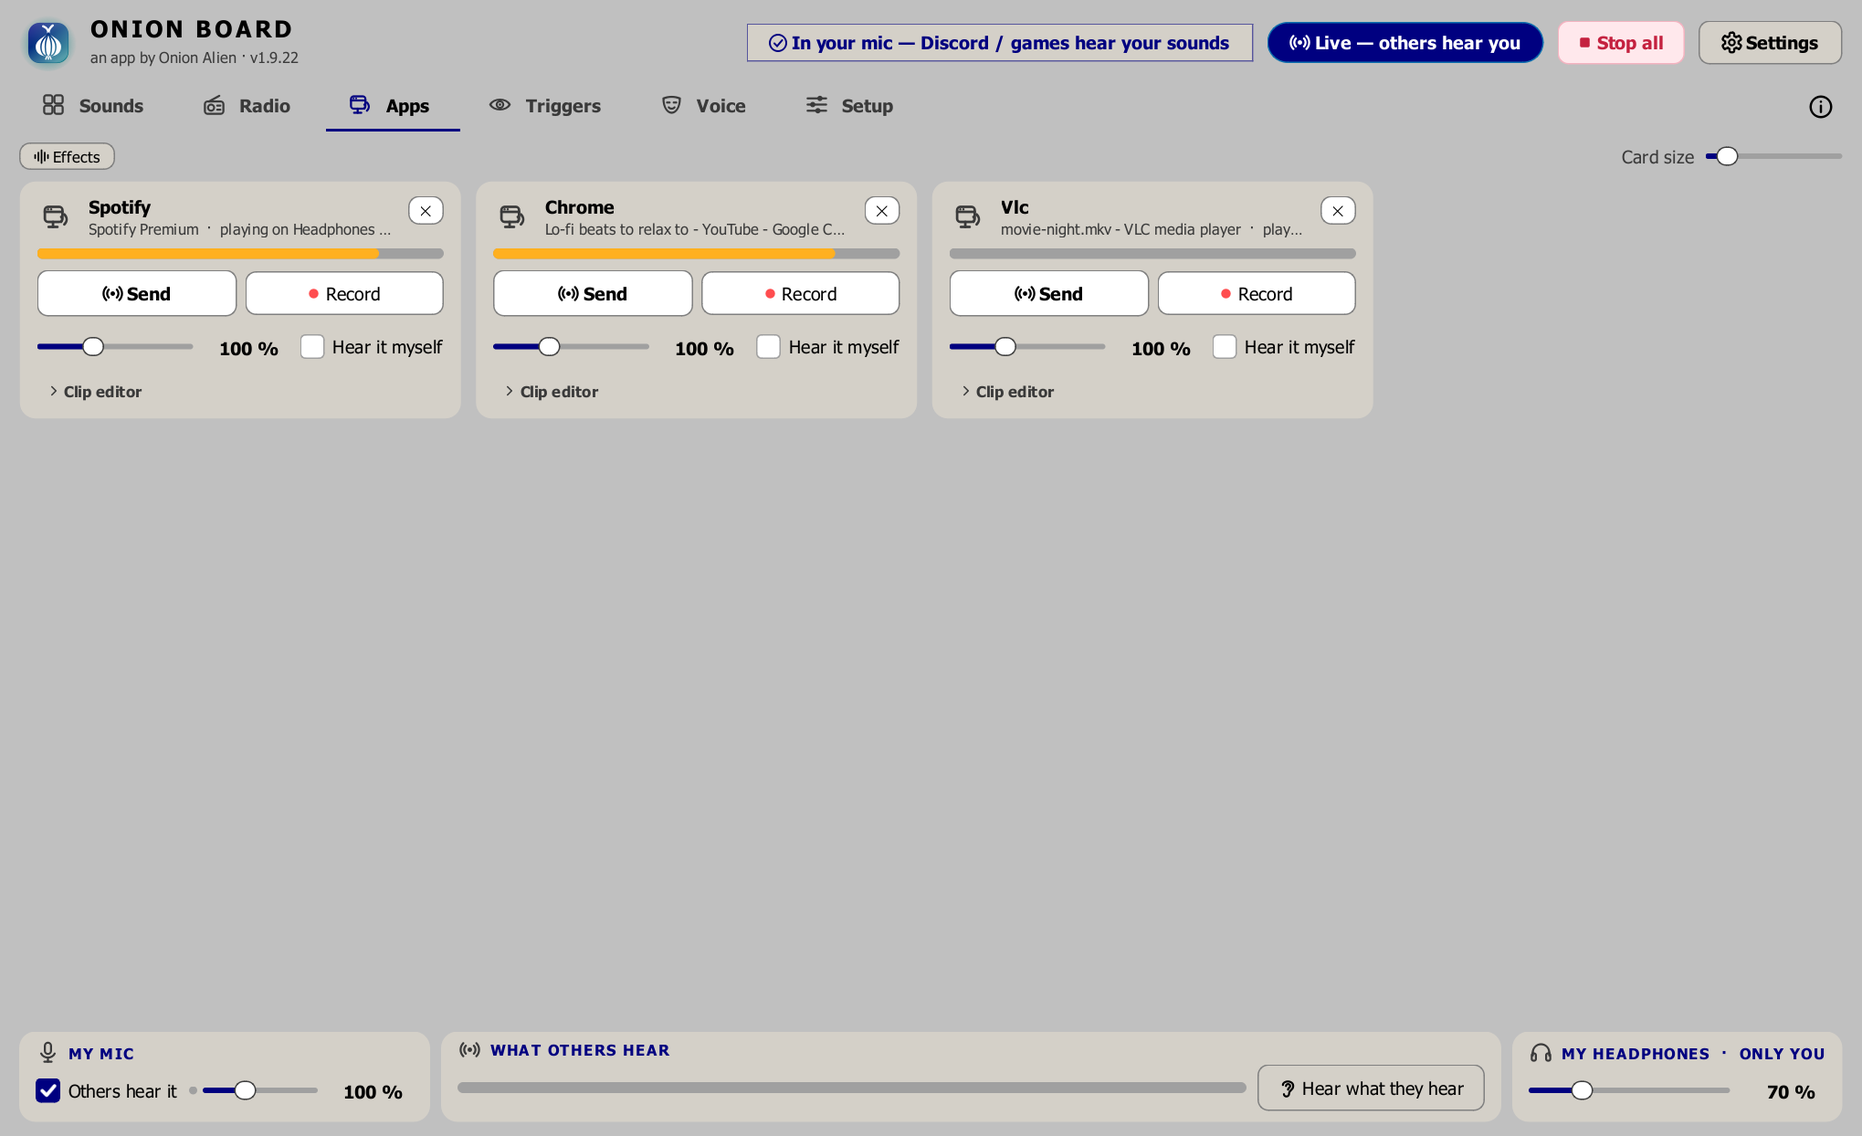
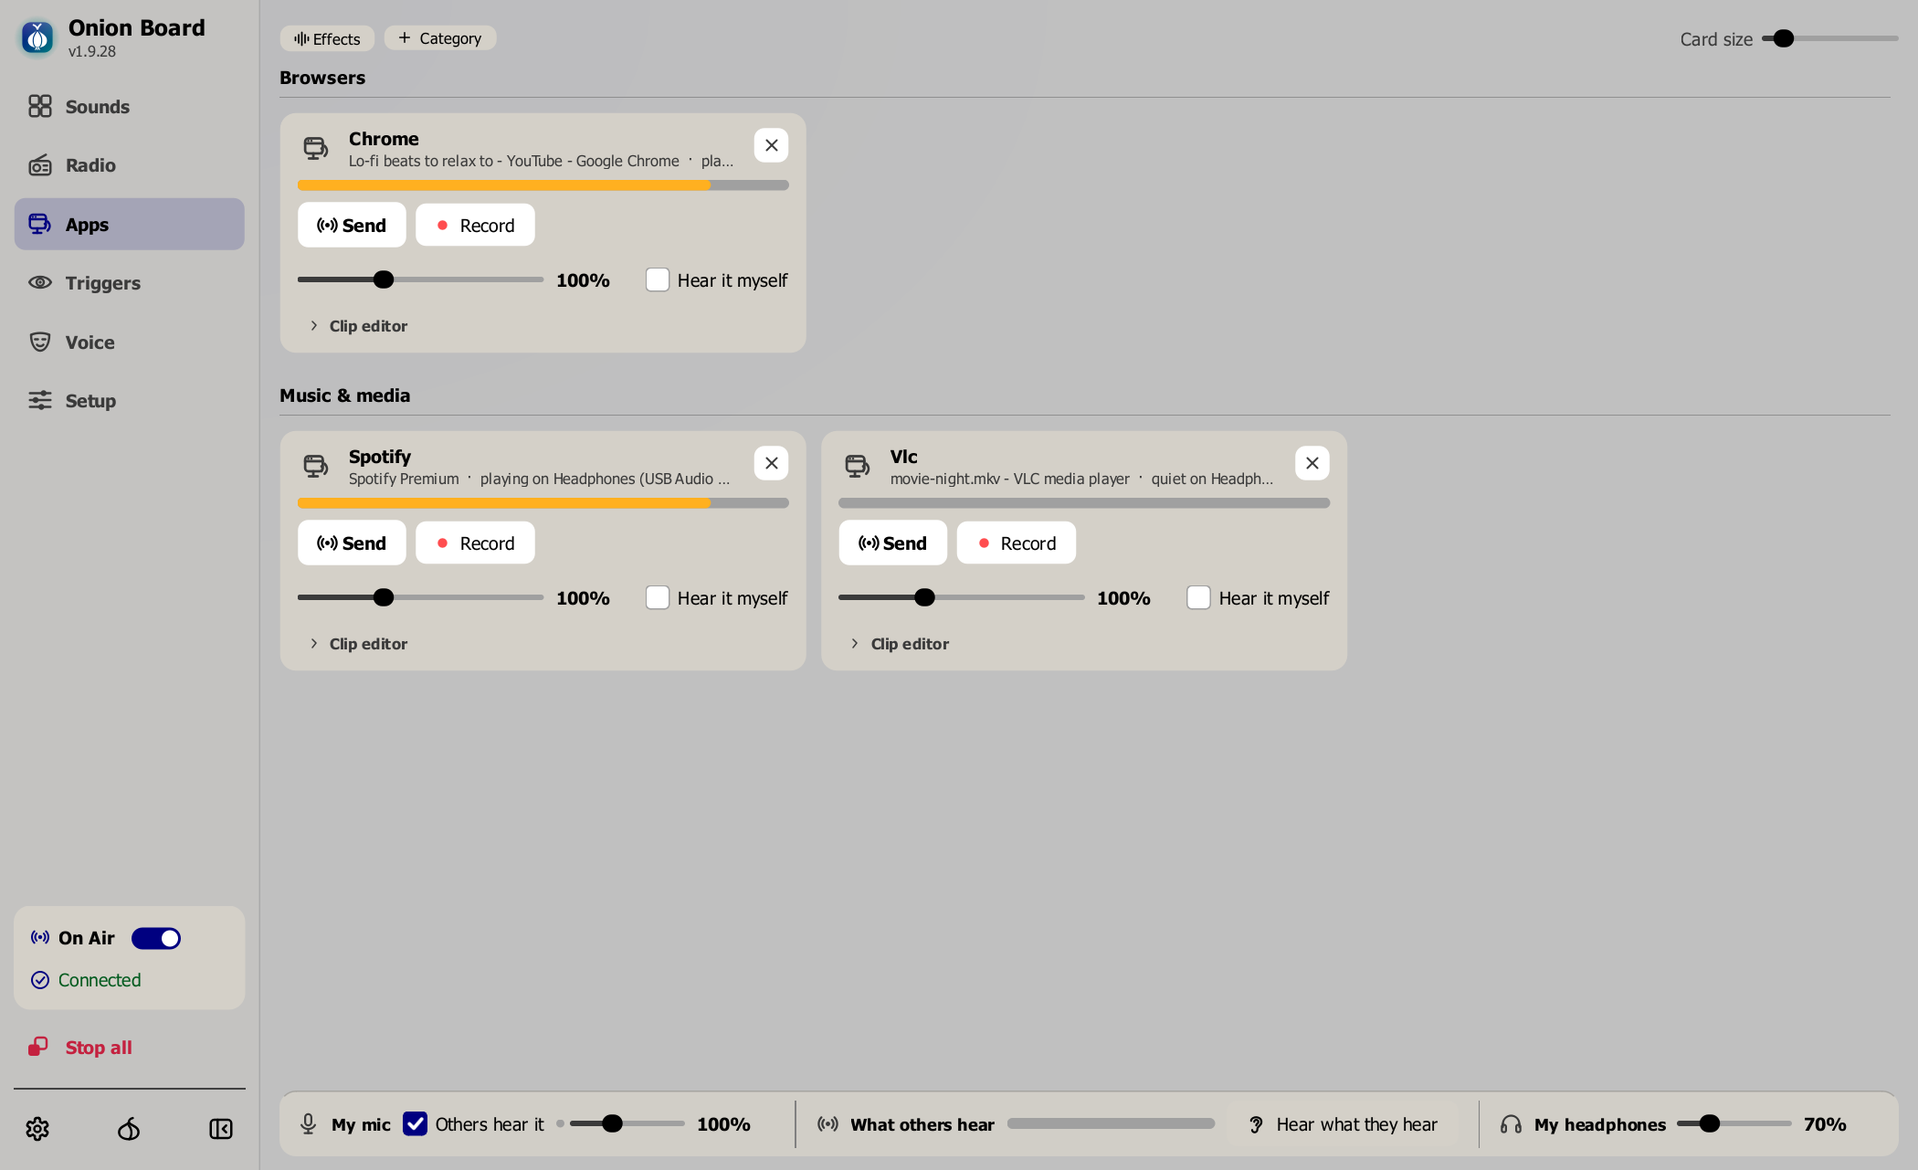
Docs: fresh README and website pictures from current main
The pictures showed the old top-tab layout. Re-rendered with scripts/docs.py
(Triggers tab from the current Onion Watch add-on). screenshots.py now:
- stubs discordcfg, so this PC's own Discord settings can't put a warning bar
  in the pictures (one did: "Discord Canary isn't hearing your sounds")
- makes the window at least 1400 wide, so the Voice tab's grid isn't cut
- has 21 made-up sounds, three full rows of pads

diff --git a/docs/index.html b/docs/index.html
@@ -7,7 +7,7 @@
 <meta name="description" content="Free Windows soundboard: play sounds into Discord and games through your mic. In-game hotkeys, an overlay, effects, a voice changer, text-to-speech, instant replay, and screen triggers that play a sound when something shows up, like YOU DIED.">
 <meta property="og:title" content="Onion Board: free soundboard for Discord and games">
 <meta property="og:description" content="Play sounds through your mic in Discord and games. Voice changer, text-to-speech, and screen triggers that play a sound when you die.">
-<meta property="og:image" content="https://onion-alien.github.io/onion-board/screenshots/sounds.png?v=ee6b9b29">
+<meta property="og:image" content="https://onion-alien.github.io/onion-board/screenshots/sounds.png?v=e8f29807">
 <meta property="og:type" content="website">
 <meta name="twitter:card" content="summary_large_image">
 <link rel="icon" href="favicon.ico" sizes="16x16 32x32 48x48">
@@ -22,7 +22,7 @@
  "description": "Free Windows soundboard: play sounds into Discord and games through your mic, with a voice changer, text-to-speech, in-game hotkeys and screen triggers.",
  "url": "https://onion-alien.github.io/onion-board/",
  "downloadUrl": "https://github.com/Onion-Alien/onion-board/releases/latest/download/OnionBoardSetup.exe",
- "screenshot": "https://onion-alien.github.io/onion-board/screenshots/sounds.png?v=ee6b9b29",
+ "screenshot": "https://onion-alien.github.io/onion-board/screenshots/sounds.png?v=e8f29807",
  "offers": {"@type": "Offer", "price": "0", "priceCurrency": "USD"}}
 </script>
 <style>
@@ -138,7 +138,7 @@
       <a href="https://www.virustotal.com/gui/file/6f9ab882ffd07498a9c9876408adcac6c45fbeff0944cd004f9e21f5a0d993d2">VirusTotal: 68 of 68 clean</a> ·
       <a href="https://github.com/Onion-Alien/onion-board/releases/latest">what's new</a></p>
     <!-- /release -->
-    <div class="stage3d"><img class="hero" src="screenshots/sounds.png?v=ee6b9b29" width="2039" height="1244" alt="Onion Board's sound pads"></div>
+    <div class="stage3d"><img class="hero" src="screenshots/sounds.png?v=e8f29807" width="2100" height="1281" alt="Onion Board's sound pads"></div>
   </header>
 
   <h2>What it does</h2>
@@ -157,10 +157,10 @@
 
   <h2>A closer look</h2>
   <div class="grid shots reveal">
-    <figure><img src="screenshots/voice.png?v=fe4870e6" alt="The Voice tab" loading="lazy"><figcaption>Voice changer and text-to-speech</figcaption></figure>
-    <figure><img src="screenshots/triggers.png?v=0e262719" alt="The Triggers tab" loading="lazy"><figcaption>Triggers: a sound when something shows up in your game</figcaption></figure>
-    <figure><img src="screenshots/apps.png?v=4c0f133e" alt="The Apps tab" loading="lazy"><figcaption>Send one program's sound to your friends</figcaption></figure>
-    <figure><img src="screenshots/setup.png?v=d3069da5" alt="The Setup tab" loading="lazy"><figcaption>Setup shows at a glance whether they can hear you</figcaption></figure>
+    <figure><img src="screenshots/voice.png?v=dd5f8d5a" alt="The Voice tab" loading="lazy"><figcaption>Voice changer and text-to-speech</figcaption></figure>
+    <figure><img src="screenshots/triggers.png?v=0f4d9357" alt="The Triggers tab" loading="lazy"><figcaption>Triggers: a sound when something shows up in your game</figcaption></figure>
+    <figure><img src="screenshots/apps.png?v=5a20e737" alt="The Apps tab" loading="lazy"><figcaption>Send one program's sound to your friends</figcaption></figure>
+    <figure><img src="screenshots/setup.png?v=e1f0e32b" alt="The Setup tab" loading="lazy"><figcaption>Setup shows at a glance whether they can hear you</figcaption></figure>
   </div>
 
   <h2>Get started</h2>

diff --git a/docs/soundboard-without-virtual-cable/index.html b/docs/soundboard-without-virtual-cable/index.html
@@ -7,7 +7,7 @@
 <meta name="description" content="Play sounds through your mic on Windows without installing VB-Cable or Voicemeeter. Onion Board is a free soundboard that puts sounds straight into the mic Discord and games already use.">
 <meta property="og:title" content="A soundboard that needs no virtual cable">
 <meta property="og:description" content="Free Windows soundboard: sounds go straight into the mic you already use. No VB-Cable, no Voicemeeter, nothing to pick in Discord.">
-<meta property="og:image" content="https://onion-alien.github.io/onion-board/screenshots/setup.png?v=d3069da5">
+<meta property="og:image" content="https://onion-alien.github.io/onion-board/screenshots/setup.png?v=e1f0e32b">
 <meta property="og:type" content="article">
 <meta name="twitter:card" content="summary_large_image">
 <link rel="icon" href="../favicon.ico" sizes="16x16 32x32 48x48">
@@ -45,7 +45,7 @@
   <p>One click, <b>Put my sounds straight into my mic</b>, adds a small audio effect to your mic in
     Windows' own audio engine (Windows asks for permission once). From then on, anything that listens
     to your mic hears your sounds mixed in. Nothing to pick in Discord, nothing to change in your games.</p>
-  <img src="../screenshots/setup.png?v=d3069da5" alt="Onion Board's Setup tab showing the sounds going into the mic" loading="lazy" width="1100" height="736">
+  <img src="../screenshots/setup.png?v=e1f0e32b" alt="Onion Board's Setup tab showing the sounds going into the mic" loading="lazy" width="1100" height="736">
   <p>It backs up your mic's settings first, and puts them back when you switch it off or uninstall.</p>
 
   <h2>Setup, step by step</h2>

diff --git a/docs/discord-soundboard/index.html b/docs/discord-soundboard/index.html
@@ -7,7 +7,7 @@
 <meta name="description" content="Play any sound or song through your mic in Discord voice chat, with hotkeys that work in-game. Free Windows soundboard, no Nitro, no length limit. Step-by-step setup.">
 <meta property="og:title" content="How to play sounds through your mic in Discord">
 <meta property="og:description" content="Free Windows soundboard: any sound, any length, hotkeys that work in-game. Setup takes two minutes.">
-<meta property="og:image" content="https://onion-alien.github.io/onion-board/screenshots/sounds.png?v=ee6b9b29">
+<meta property="og:image" content="https://onion-alien.github.io/onion-board/screenshots/sounds.png?v=e8f29807">
 <meta property="og:type" content="article">
 <meta name="twitter:card" content="summary_large_image">
 <link rel="icon" href="../favicon.ico" sizes="16x16 32x32 48x48">
@@ -56,7 +56,7 @@
       or use push-to-talk. Onion Board reads these settings and shows a bar when one is in the way.</li>
     <li>Drag sound files onto the Onion Board window and double-click a pad. Everyone in the call hears it.</li>
   </ol>
-  <img src="../screenshots/sounds.png?v=ee6b9b29" alt="Onion Board's sound pads" loading="lazy" width="1100" height="736">
+  <img src="../screenshots/sounds.png?v=e8f29807" alt="Onion Board's sound pads" loading="lazy" width="1100" height="736">
 
   <h2>Play sounds while you're in a game</h2>
   <p>Right-click a pad and give it a <b>hotkey</b>. Hotkeys work even while a fullscreen game has

diff --git a/docs/play-sounds-through-mic/index.html b/docs/play-sounds-through-mic/index.html
@@ -7,7 +7,7 @@
 <meta name="description" content="How to play sounds and music through your microphone on Windows so others hear them in Discord, games and calls, without a virtual cable. Free, step by step.">
 <meta property="og:title" content="How to play sounds through your mic">
 <meta property="og:description" content="Play sounds and music through your mic on Windows, free, no virtual cable.">
-<meta property="og:image" content="https://onion-alien.github.io/onion-board/screenshots/setup.png?v=d3069da5">
+<meta property="og:image" content="https://onion-alien.github.io/onion-board/screenshots/setup.png?v=e1f0e32b">
 <meta property="og:type" content="article">
 <meta name="twitter:card" content="summary_large_image">
 <link rel="icon" href="../favicon.ico" sizes="16x16 32x32 48x48">
@@ -33,7 +33,7 @@
   <p>Install a soundboard that mixes sounds into your mic. Onion Board does it with one click and no
     virtual cable: it adds a small audio effect to your mic in Windows' own audio engine, so every app
     that listens to your mic hears your voice and your sounds together.</p>
-  <img src="../screenshots/setup.png?v=d3069da5" alt="Onion Board's Setup tab showing sounds going into the mic" loading="lazy" width="1100" height="736">
+  <img src="../screenshots/setup.png?v=e1f0e32b" alt="Onion Board's Setup tab showing sounds going into the mic" loading="lazy" width="1100" height="736">
 
   <h2>Step by step</h2>
   <ol>

diff --git a/docs/free-soundpad-alternative/index.html b/docs/free-soundpad-alternative/index.html
@@ -7,7 +7,7 @@
 <meta name="description" content="Looking for a free alternative to Soundpad or Voicemod? Onion Board is a free Windows soundboard with a voice changer, text-to-speech, in-game hotkeys and screen triggers. No account, no ads.">
 <meta property="og:title" content="A free Soundpad and Voicemod alternative">
 <meta property="og:description" content="Free Windows soundboard with a voice changer, text-to-speech, in-game hotkeys and screen triggers.">
-<meta property="og:image" content="https://onion-alien.github.io/onion-board/screenshots/sounds.png?v=ee6b9b29">
+<meta property="og:image" content="https://onion-alien.github.io/onion-board/screenshots/sounds.png?v=e8f29807">
 <meta property="og:type" content="article">
 <meta name="twitter:card" content="summary_large_image">
 <link rel="icon" href="../favicon.ico" sizes="16x16 32x32 48x48">
@@ -69,7 +69,7 @@
     banner or a kill icon, and it plays a sound the moment that picture shows up. Set a sad
     trombone for every death and never press a key. It watches the game's own window, works
     behind other windows, and runs entirely on your PC.</p>
-  <img src="../screenshots/triggers.png?v=0e262719" alt="Onion Board's Triggers tab" loading="lazy" width="1100" height="736">
+  <img src="../screenshots/triggers.png?v=0f4d9357" alt="Onion Board's Triggers tab" loading="lazy" width="1100" height="736">
 
   <h2>Switching over</h2>
   <ol>

diff --git a/docs/resanance-alternative/index.html b/docs/resanance-alternative/index.html
@@ -7,7 +7,7 @@
 <meta name="description" content="Looking for a Resanance alternative? Onion Board is a free Windows soundboard that imports your Resanance sounds and hotkeys in one click and plays them through your mic with no virtual cable.">
 <meta property="og:title" content="A Resanance alternative that imports your board">
 <meta property="og:description" content="Free Windows soundboard: your Resanance sounds and hotkeys come over in one click.">
-<meta property="og:image" content="https://onion-alien.github.io/onion-board/screenshots/sounds.png?v=ee6b9b29">
+<meta property="og:image" content="https://onion-alien.github.io/onion-board/screenshots/sounds.png?v=e8f29807">
 <meta property="og:type" content="article">
 <meta name="twitter:card" content="summary_large_image">
 <link rel="icon" href="../favicon.ico" sizes="16x16 32x32 48x48">
@@ -45,7 +45,7 @@
     <li><b>Add sounds from search:</b> YouTube, SoundCloud and Myinstants, one click to keep one as a pad.</li>
     <li><b>Screen triggers:</b> play a sound when something shows up in your game, like "YOU DIED".</li>
   </ul>
-  <img src="../screenshots/sounds.png?v=ee6b9b29" alt="Onion Board's Sounds tab with pads" loading="lazy" width="1100" height="736">
+  <img src="../screenshots/sounds.png?v=e8f29807" alt="Onion Board's Sounds tab with pads" loading="lazy" width="1100" height="736">
 
   <h2>Switching over</h2>
   <ol>

diff --git a/docs/exp-soundboard-alternative/index.html b/docs/exp-soundboard-alternative/index.html
@@ -7,7 +7,7 @@
 <meta name="description" content="Looking for an EXP Soundboard alternative? Onion Board is a free Windows soundboard that imports your EXP sounds and hotkeys in one click, needs no Java and no virtual cable.">
 <meta property="og:title" content="An EXP Soundboard alternative that imports your board">
 <meta property="og:description" content="Free Windows soundboard: no Java, no virtual cable, your EXP board comes over in one click.">
-<meta property="og:image" content="https://onion-alien.github.io/onion-board/screenshots/sounds.png?v=ee6b9b29">
+<meta property="og:image" content="https://onion-alien.github.io/onion-board/screenshots/sounds.png?v=e8f29807">
 <meta property="og:type" content="article">
 <meta name="twitter:card" content="summary_large_image">
 <link rel="icon" href="../favicon.ico" sizes="16x16 32x32 48x48">
@@ -44,7 +44,7 @@
     <li><b>Add sounds from search:</b> YouTube, SoundCloud and Myinstants.</li>
     <li><b>Updates itself</b> when a new version is out (you click Update now).</li>
   </ul>
-  <img src="../screenshots/sounds.png?v=ee6b9b29" alt="Onion Board's Sounds tab with pads" loading="lazy" width="1100" height="736">
+  <img src="../screenshots/sounds.png?v=e8f29807" alt="Onion Board's Sounds tab with pads" loading="lazy" width="1100" height="736">
 
   <h2>Switching over</h2>
   <ol>

diff --git a/docs/discord-text-to-speech-voice-chat/index.html b/docs/discord-text-to-speech-voice-chat/index.html
@@ -7,7 +7,7 @@
 <meta name="description" content="Type a line and have it spoken in Discord voice chat or in-game voice. Free Windows app: Windows voices or your own (Kokoro, Piper), voice effects, and live speech in 33 languages.">
 <meta property="og:title" content="Text-to-speech in Discord voice chat">
 <meta property="og:description" content="Type a line, everyone in the voice channel hears it. Free, Windows.">
-<meta property="og:image" content="https://onion-alien.github.io/onion-board/screenshots/voice.png?v=fe4870e6">
+<meta property="og:image" content="https://onion-alien.github.io/onion-board/screenshots/voice.png?v=dd5f8d5a">
 <meta property="og:type" content="article">
 <meta name="twitter:card" content="summary_large_image">
 <link rel="icon" href="../favicon.ico" sizes="16x16 32x32 48x48">
@@ -38,7 +38,7 @@
       press <b>Enter</b>. It's spoken in the voice you picked, into your mic.</li>
     <li><b>Save as sound</b> keeps a line as a pad, so you can give it a hotkey and play it in-game.</li>
   </ol>
-  <img src="../screenshots/voice.png?v=fe4870e6" alt="Onion Board's Voice tab with text-to-speech" loading="lazy" width="1100" height="736">
+  <img src="../screenshots/voice.png?v=dd5f8d5a" alt="Onion Board's Voice tab with text-to-speech" loading="lazy" width="1100" height="736">
 
   <h2>Voices</h2>
   <ul>

diff --git a/docs/voicemod-alternative/index.html b/docs/voicemod-alternative/index.html
@@ -7,7 +7,7 @@
 <meta name="description" content="A free alternative to Voicemod for Windows: a soundboard and a live voice changer with 21 voices, optional AI voices, text-to-speech and in-game hotkeys. No account, no subscription.">
 <meta property="og:title" content="A free Voicemod alternative">
 <meta property="og:description" content="Soundboard + live voice changer for Discord and games. Free, no account.">
-<meta property="og:image" content="https://onion-alien.github.io/onion-board/screenshots/voice.png?v=fe4870e6">
+<meta property="og:image" content="https://onion-alien.github.io/onion-board/screenshots/voice.png?v=dd5f8d5a">
 <meta property="og:type" content="article">
 <meta name="twitter:card" content="summary_large_image">
 <link rel="icon" href="../favicon.ico" sizes="16x16 32x32 48x48">
@@ -43,7 +43,7 @@
     <tr><td>Account needed</td><td>No</td></tr>
     <tr><td>Price</td><td>Free</td></tr>
   </table>
-  <img src="../screenshots/voice.png?v=fe4870e6" alt="Onion Board's Voice tab with the voice changer" loading="lazy" width="1100" height="736">
+  <img src="../screenshots/voice.png?v=dd5f8d5a" alt="Onion Board's Voice tab with the voice changer" loading="lazy" width="1100" height="736">
 
   <h2>Set up in two minutes</h2>
   <ol>

diff --git a/docs/zoom-google-meet-soundboard/index.html b/docs/zoom-google-meet-soundboard/index.html
@@ -7,7 +7,7 @@
 <meta name="description" content="Play sounds, music and text-to-speech in Zoom and Google Meet calls on Windows. Free soundboard, plus the one setting in each app that stops your sounds being filtered out.">
 <meta property="og:title" content="A soundboard for Zoom and Google Meet">
 <meta property="og:description" content="Play sounds in Zoom and Meet calls, and the setting that stops them being filtered out.">
-<meta property="og:image" content="https://onion-alien.github.io/onion-board/screenshots/sounds.png?v=ee6b9b29">
+<meta property="og:image" content="https://onion-alien.github.io/onion-board/screenshots/sounds.png?v=e8f29807">
 <meta property="og:type" content="article">
 <meta name="twitter:card" content="summary_large_image">
 <link rel="icon" href="../favicon.ico" sizes="16x16 32x32 48x48">

diff --git a/scripts/screenshots.py b/scripts/screenshots.py
@@ -57,7 +57,9 @@ SOUNDS = [("Airhorn", "F1", "Memes"), ("Vine Boom", "F2", "Memes"),
           ("Crickets", "", "Memes"), ("Victory Fanfare", "ctrl+2", "Music"),
           ("Oof", "", "Memes"), ("Record Scratch", "", "Music"),
           ("Dun Dun Dunn", "", "Memes"), ("Laugh Track", "", "Reactions"),
-          ("Bonk", "F5", "Memes")]
+          ("Bonk", "F5", "Memes"), ("Ta-da", "", "Reactions"),
+          ("Boing", "", "Memes"), ("Buzzer", "F6", "Reactions"), ("Whoosh", "", "Memes"),
+          ("Ding", "", "Reactions"), ("Mystery Theme", "", "Music")]   # 21: three full rows
 # Pad pictures, drawn in code: sound name -> (emoji, top colour, bottom colour)
 PICTURES = {"Airhorn": ("📯", "#ffb347", "#ff6a3d"),
             "Sad Trombone": ("🎺", "#5b8def", "#2c3e91"),
@@ -66,7 +68,9 @@ PICTURES = {"Airhorn": ("📯", "#ffb347", "#ff6a3d"),
             "Crickets": ("🦗", "#7bd389", "#2d6a4f"),
             "Victory Fanfare": ("🏆", "#ffe066", "#e09f3e"),
             "Laugh Track": ("😂", "#a0e7e5", "#4ea8de"),
-            "Bonk": ("🔨", "#c77dff", "#7b2cbf")}
+            "Bonk": ("🔨", "#c77dff", "#7b2cbf"),
+            "Ta-da": ("🎉", "#ff9ecd", "#d6336c"),
+            "Mystery Theme": ("🕵", "#6c757d", "#212529")}
 # Triggers tab: (name, picture (see trigger_picture), sound index, wait, live match %)
 TRIGGERS = [("Died", "died", 2, 1.5, 12),
             ("Boss beaten", "victory", 9, 0.0, 91),
@@ -102,6 +106,10 @@ def fake_machine(tmp: Path):
     directmic.installed_on = lambda: ["{demo}"]
     directmic.endpoint_for = lambda name: "{demo}"
     engine.Engine.effect_alive = lambda self: True
+    # this PC's own Discord settings stay out too (a warning bar would show them)
+    from soundboard import discordcfg
+    discordcfg.read = lambda appdata=None: []
+    discordcfg.signature = lambda appdata=None: ()
     engine.Engine.direct_apps = lambda self: 2
     engine.Engine.set_tap_device = lambda self, n: setattr(self, "tap_name", n)
     appaudio.list_apps = lambda *a, **k: [
@@ -250,9 +258,10 @@ def main():
     w._update_status()
     spin(1.5)
     # wide enough that nothing folds away (the tagline with the version, the buttons'
-    # words): the top row grows as features are added, and 1180 stopped being enough
+    # words): the top row grows as features are added, and 1180 stopped being enough.
+    # At least 1400, so the Voice tab's voice grid fits without a half-cut last row
     w._fit.reset()
-    need = w._fit.need().width()
+    need = max(w._fit.need().width(), 1400)
     if need > w.width():
         w.resize(need, round(need * 720 / 1180))
         spin(1.5)

diff --git a/README.md b/README.md
@@ -12,13 +12,13 @@ Version **1.9.28** · Windows 10 / 11 · free, no account, no ads, anonymous usa
 [what's new](CHANGELOG.md)
 <!-- /release -->
 
-![Onion Board's sound pads](docs/screenshots/sounds.png?v=ee6b9b29)
+![Onion Board's sound pads](docs/screenshots/sounds.png?v=e8f29807)
 
 | | |
 |---|---|
-| ![Voice changer and text-to-speech](docs/screenshots/voice.png?v=fe4870e6) | ![Screen triggers](docs/screenshots/triggers.png?v=0e262719) |
+| ![Voice changer and text-to-speech](docs/screenshots/voice.png?v=dd5f8d5a) | ![Screen triggers](docs/screenshots/triggers.png?v=0f4d9357) |
 | **Voice**: change your voice live, or type and a computer voice says it | **Triggers**: a sound the moment "YOU DIED" shows up in your game |
-| ![Send a program's sound](docs/screenshots/apps.png?v=4c0f133e) | ![Setup at a glance](docs/screenshots/setup.png?v=d3069da5) |
+| ![Send a program's sound](docs/screenshots/apps.png?v=5a20e737) | ![Setup at a glance](docs/screenshots/setup.png?v=e1f0e32b) |
 | **Apps**: send one program's sound (music, a video) to your friends | **Setup**: one look tells you whether others can hear you |
 
 ## What it does
